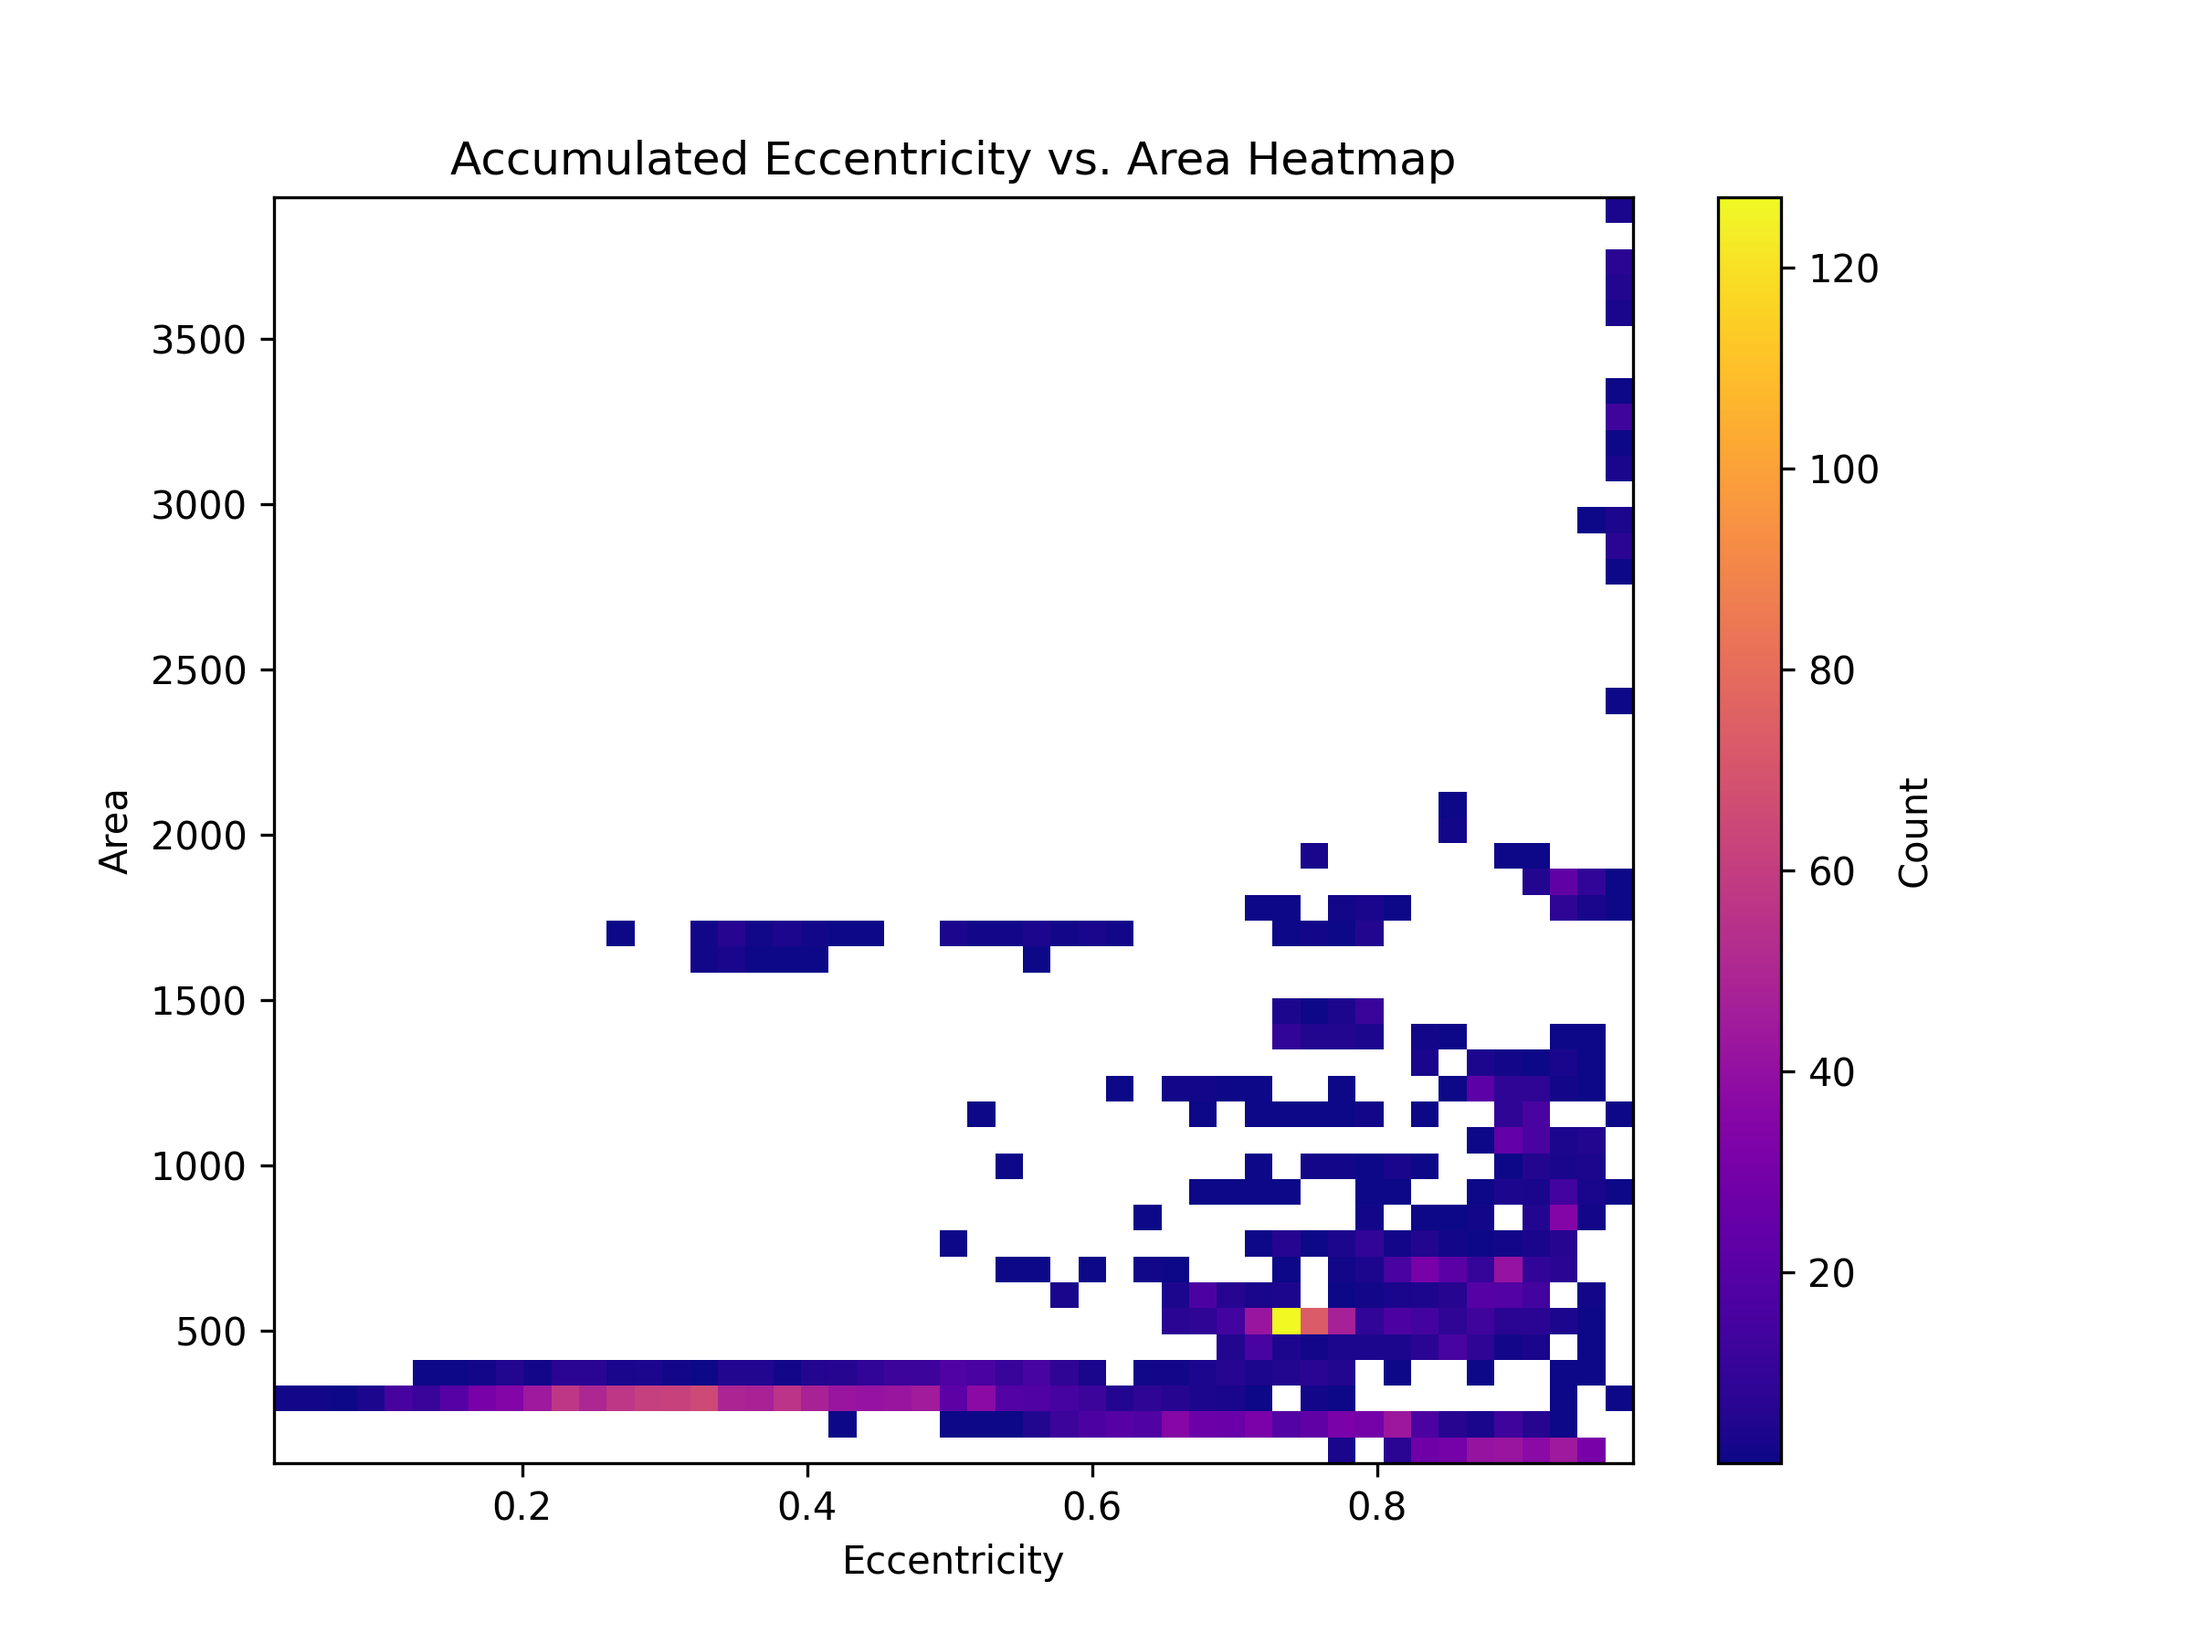
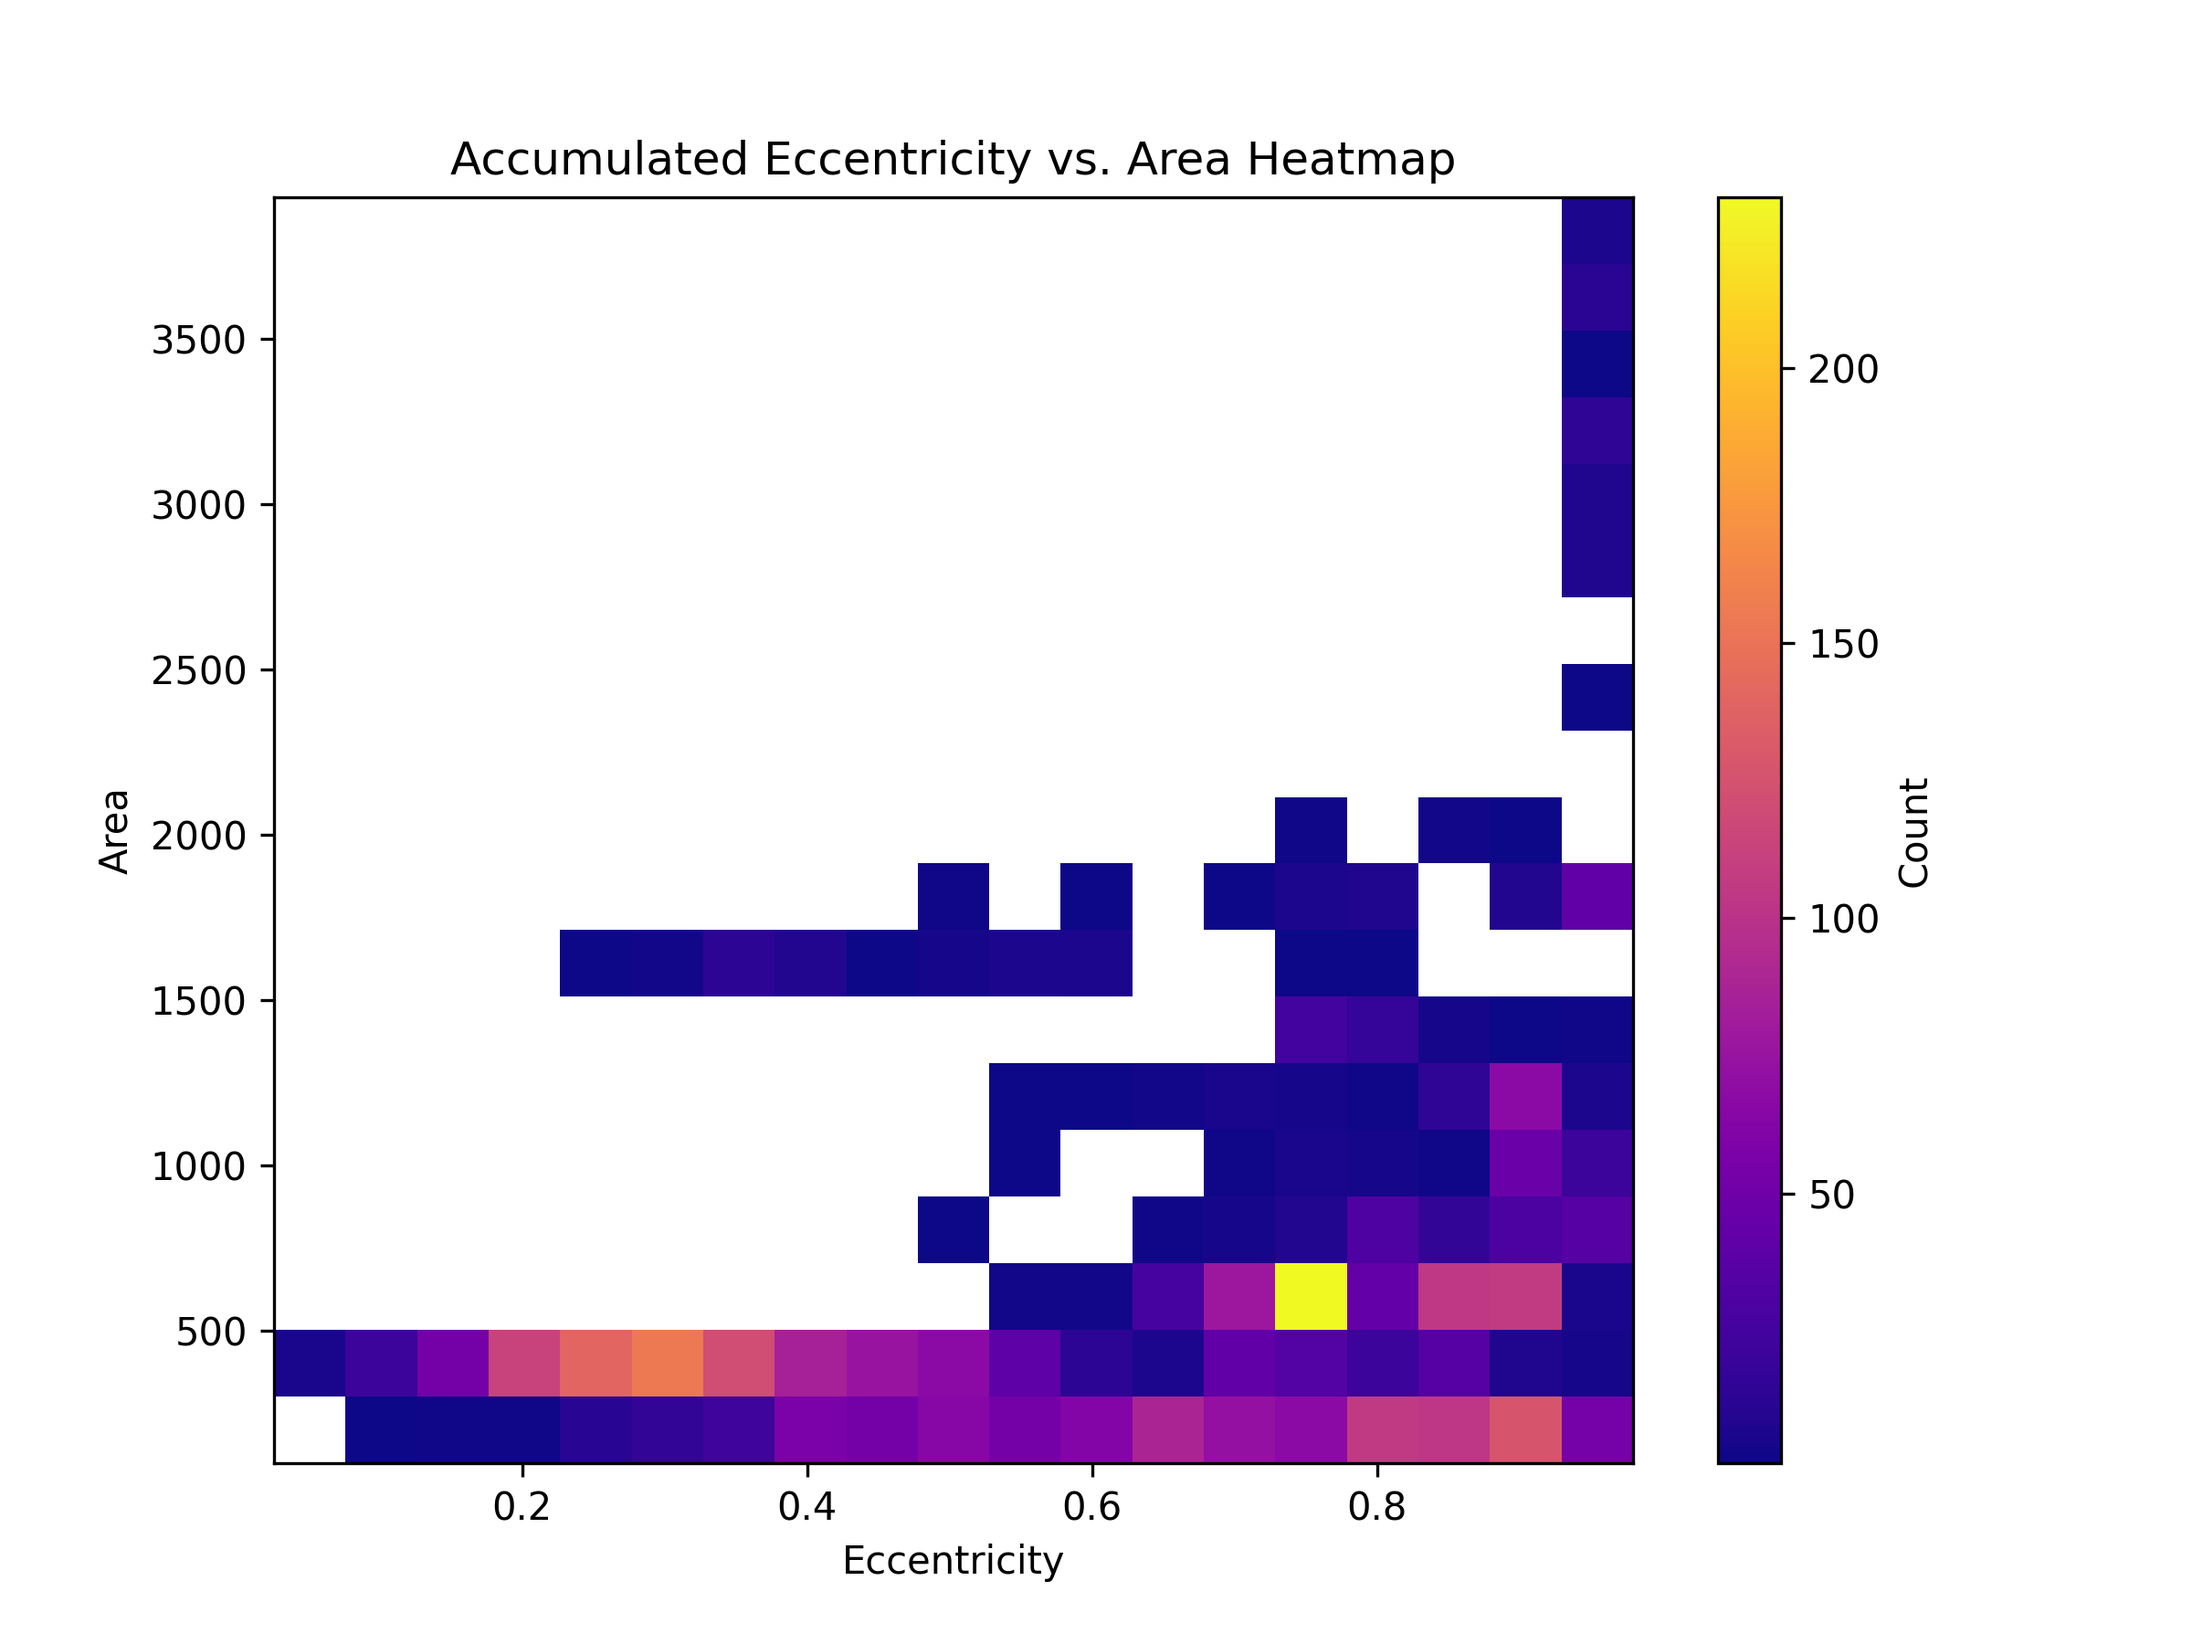
10/4/24

diff --git a/Refined_Codes/Graphing_Codes/MaxEccPerFrame.py b/Refined_Codes/Graphing_Codes/MaxEccPerFrame.py
@@ -10,7 +10,7 @@ for i in range(1, 50):
     # Step 1: Read the CSV file
     file_path = f'results/CSVs/cluster_data_frame{i}.csv'
     df = pd.read_csv(file_path)
-    max_area = df['Eccentricity'].mean()
+    max_area = df['Eccentricity'].max()
 
     # Append the maximum area for the current dataframe to the list
     area_list.append(max_area)
@@ -24,7 +24,7 @@ plt.figure(figsize=(12, 6))  # Adjust figure size as needed
 # Plotting the data points
 plt.plot(range(1, 50), area_array, marker='o', linestyle='-', color='b')
 
-plt.title('Mean eccentricity Per Frame')
+plt.title('Max eccentricity Per Frame')
 plt.ylabel('eccentricity')
 plt.xlabel('Frame Number')
 
@@ -32,7 +32,7 @@ plt.xlabel('Frame Number')
 plt.xticks(rotation=45)
 
 # Save the plot as a PNG file
-plt.savefig('results/Graphs/MeanEcc/Mean_ecc.png', dpi=300)
+plt.savefig('results/Graphs/MaxEcc/Max_ecc.png', dpi=300)
 
 # Optionally clear the current figure
 plt.clf()

diff --git a/Refined_Codes/Graphing_Codes/MinEccPerFrame.py b/Refined_Codes/Graphing_Codes/MinEccPerFrame.py
@@ -10,7 +10,7 @@ for i in range(1, 50):
     # Step 1: Read the CSV file
     file_path = f'results/CSVs/cluster_data_frame{i}.csv'
     df = pd.read_csv(file_path)
-    max_area = df['Eccentricity'].mean()
+    max_area = df['Eccentricity'].min()
 
     # Append the maximum area for the current dataframe to the list
     area_list.append(max_area)
@@ -24,7 +24,7 @@ plt.figure(figsize=(12, 6))  # Adjust figure size as needed
 # Plotting the data points
 plt.plot(range(1, 50), area_array, marker='o', linestyle='-', color='b')
 
-plt.title('Mean eccentricity Per Frame')
+plt.title('Min eccentricity Per Frame')
 plt.ylabel('eccentricity')
 plt.xlabel('Frame Number')
 
@@ -32,7 +32,7 @@ plt.xlabel('Frame Number')
 plt.xticks(rotation=45)
 
 # Save the plot as a PNG file
-plt.savefig('results/Graphs/MeanEcc/Mean_ecc.png', dpi=300)
+plt.savefig('results/Graphs/MinEcc/Min_ecc.png', dpi=300)
 
 # Optionally clear the current figure
 plt.clf()

diff --git a/Refined_Codes/Graphing_Codes/2dHeatMap.py b/Refined_Codes/Graphing_Codes/2dHeatMap.py
@@ -23,8 +23,8 @@ area_array = np.array(area_list)
 # Plot Eccentricity vs. Area as a 2D heatmap
 plt.figure(figsize=(8, 6))  # Adjust figure size as needed
 # Determine bin edges
-ecc_bins = np.linspace(eccentricity_array.min(), eccentricity_array.max(), 50)
-area_bins = np.linspace(area_array.min(), area_array.max(), 50)
+ecc_bins = np.linspace(eccentricity_array.min(), eccentricity_array.max(), 20)
+area_bins = np.linspace(area_array.min(), area_array.max(), 20)
 plt.hist2d(eccentricity_array, area_array, bins=[ecc_bins, area_bins], cmap='plasma', cmin=1)
 plt.colorbar(label='Count')  # Show a color bar indicating the counts in each bin
 
